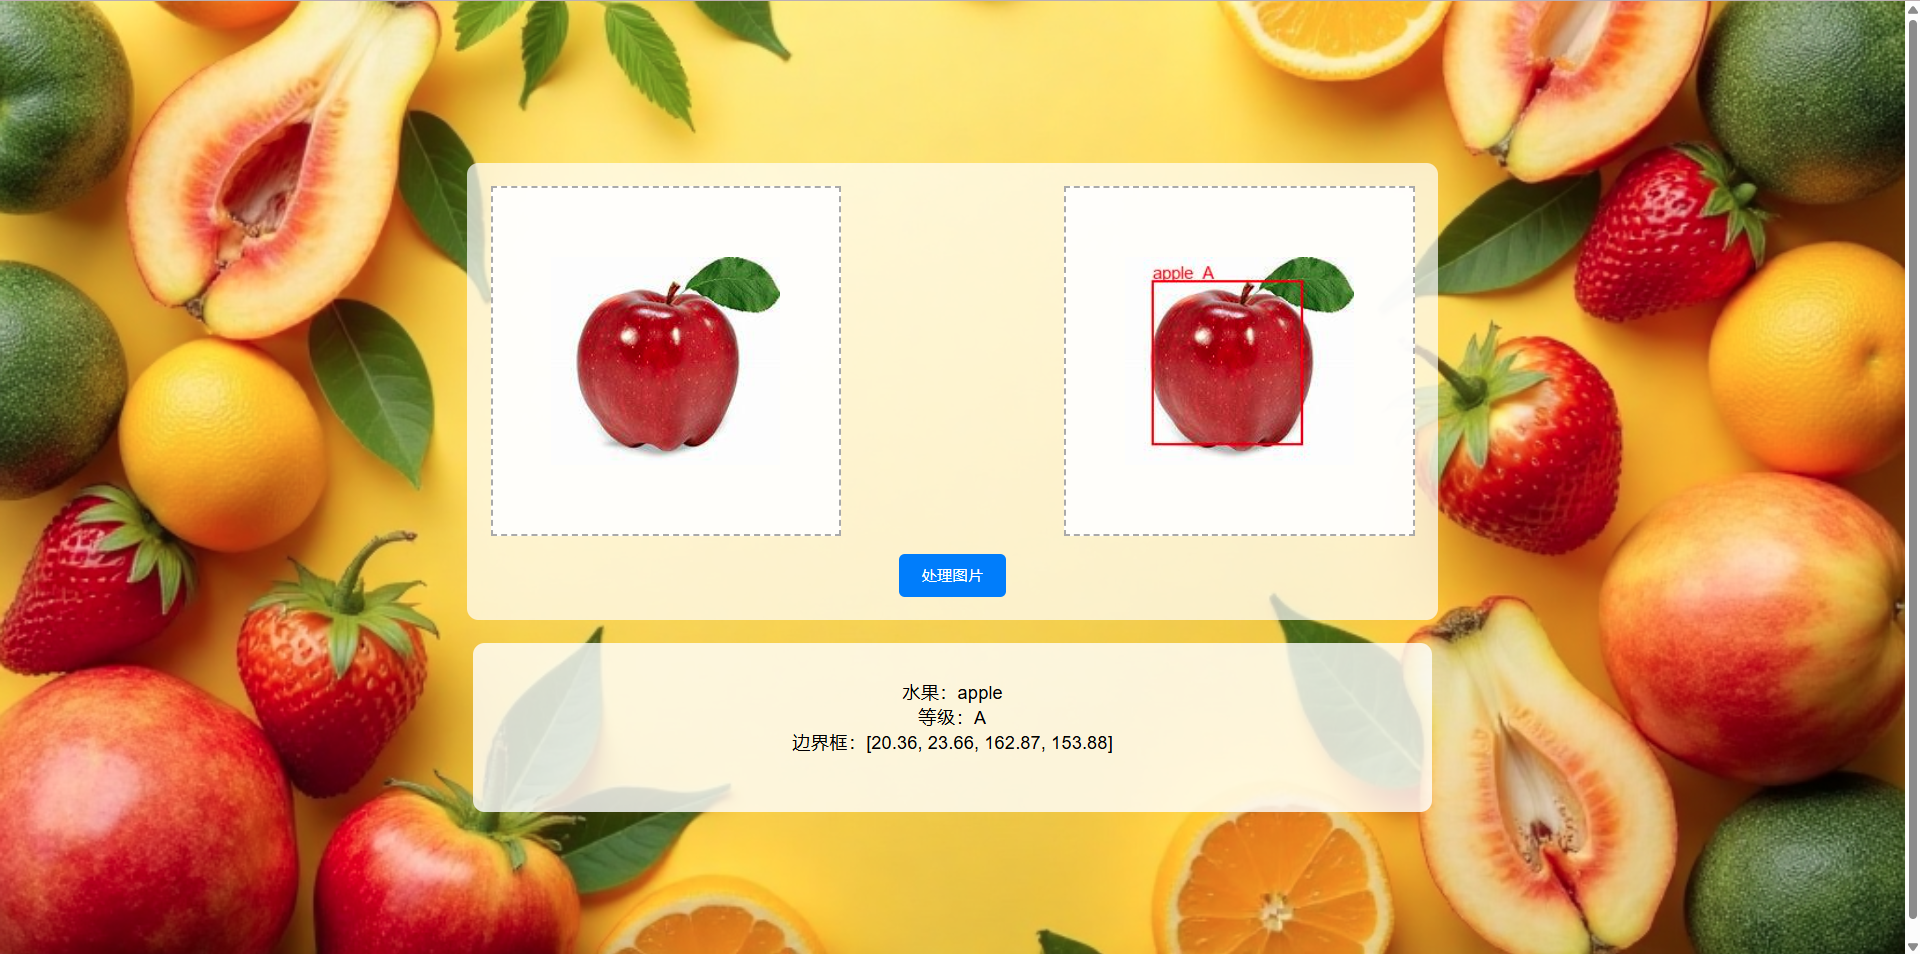
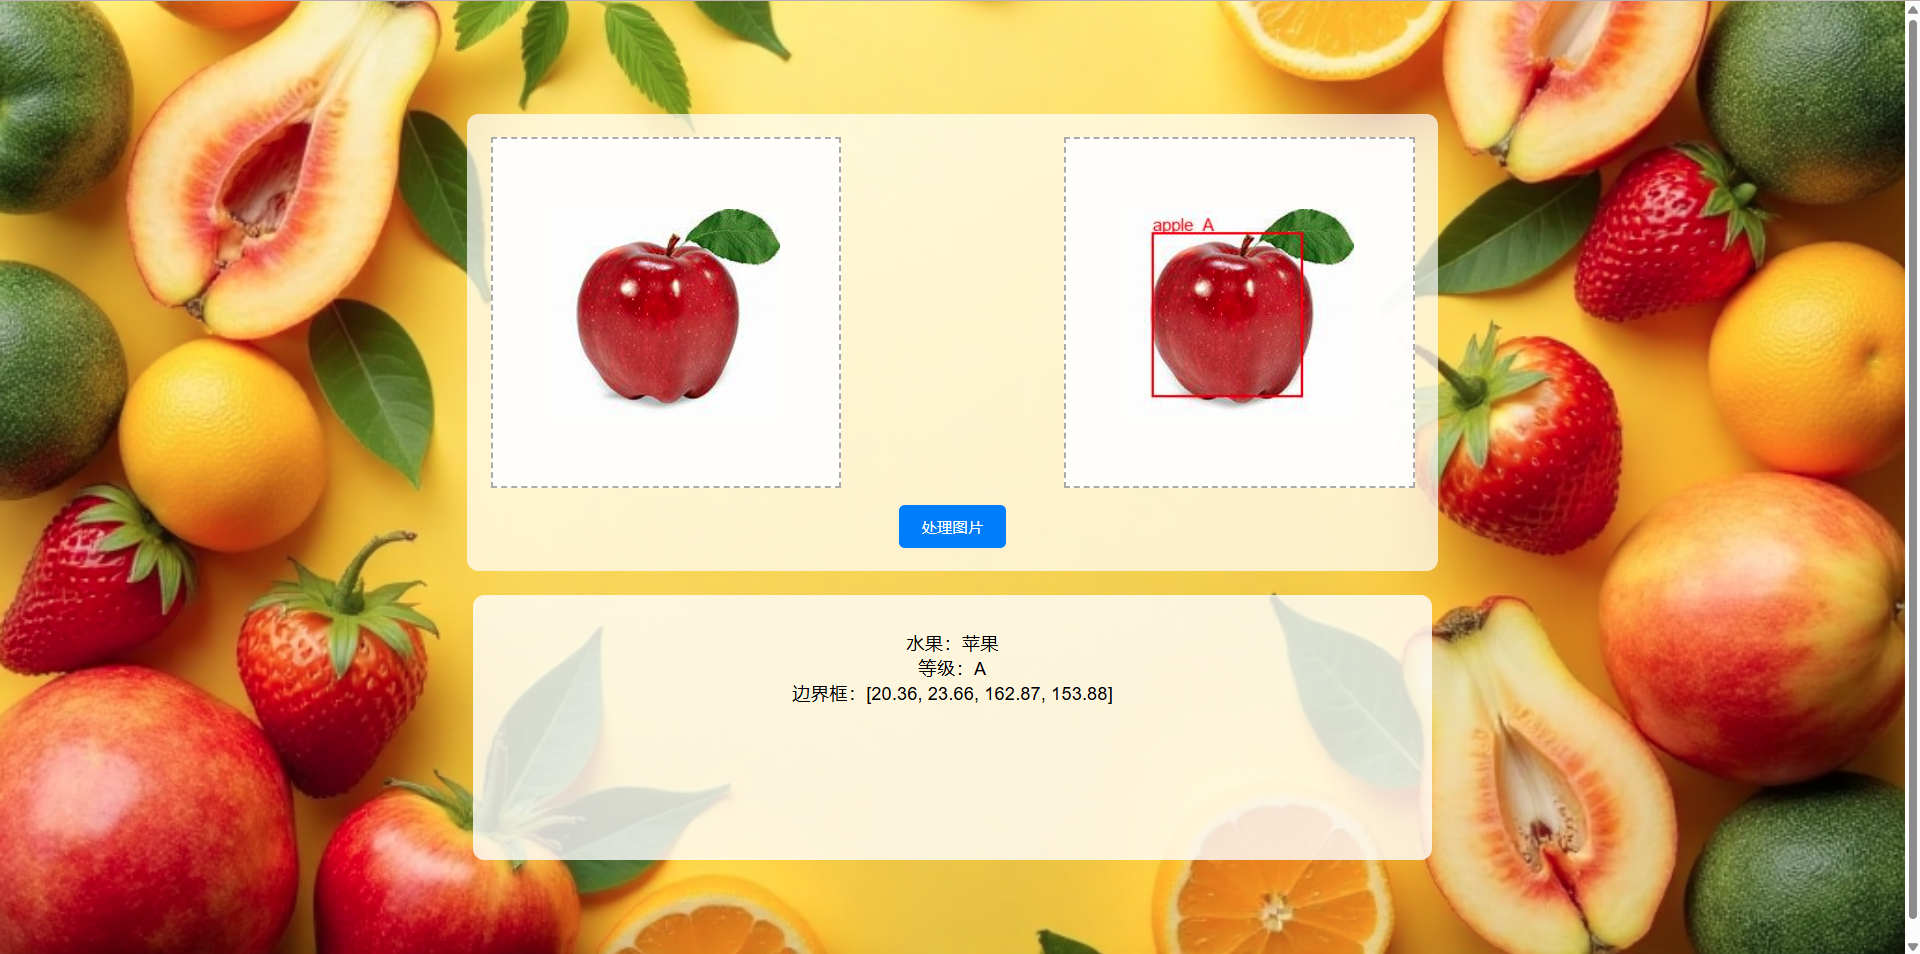
update preview picture

Changed region(s): [[0.2188, 0.1216, 0.75, 0.7904], [0.2188, 0.8512, 0.75, 0.9119]]

diff --git a/README.md b/README.md
@@ -6,7 +6,7 @@
 
 #### 0.preview
 
-![945b08bdee58efaa462794f6516f267](./preview/preview.png)
+![preview](./preview/preview2.png)
 =======
 #### 1.model_part
 
